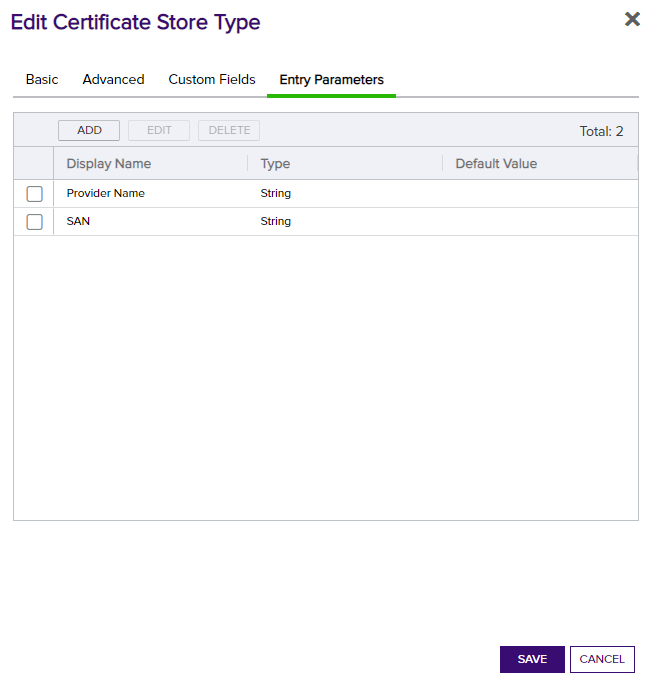
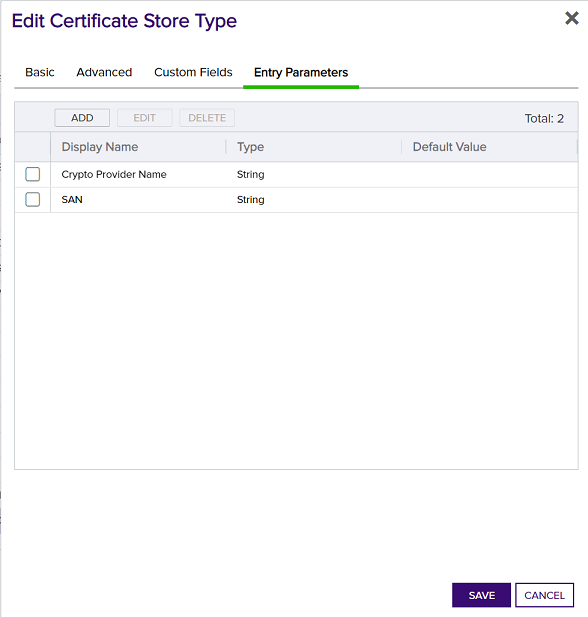
Update readme images, tables. Remove old images.

diff --git a/readme_source.md b/readme_source.md
@@ -33,7 +33,7 @@ Below describes how each of these certificate store types are created and config
 
 CONFIG ELEMENT | VALUE | DESCRIPTION
 --|--|--
-Name | IISU | Display name for the store type (may be customized)
+Name | IIS Bound Certificate | Display name for the store type (may be customized)
 Short Name| IISU | Short display name for the store type
 Custom Capability | IISU | Store type name orchestrator will register with. Check the box to allow entry of value
 Supported Job Types | Inventory, Add, Remove, Reenrollment | Job types the extension supports
@@ -55,21 +55,24 @@ Supports Custom Alias | Forbidden | Determines if an individual entry within a s
 Private Keys | Required | This determines if Keyfactor can send the private key associated with a certificate to the store. Required because IIS certificates without private keys would be useless.
 PFX Password Style | Default or Custom | "Default" - PFX password is randomly generated, "Custom" - PFX password may be specified when the enrollment job is created (Requires the *Allow Custom Password* application setting to be enabled.)
 
-![](images/screen1-a.gif)
+![](images/IISUCertStoreAdv.png)
 
 **Custom Fields:**
 
 Custom fields operate at the certificate store level and are used to control how the orchestrator connects to the remote
 target server containing the certificate store to be managed
 
-Parameter Name|Display Name|Parameter Type|Default Value / Options|Required|Description
+Name|Display Name|Type|Default Value / Options|Required|Description
 ---|---|---|---|---|---
-ServerUsername|Server Username|Secret||No|The username to log into the target server (This field is automatically created)
-ServerPassword|Server Password|Secret||No|The password that matches the username to log into the target server (This field is automatically created)
-ServerUseSsl|Use SSL|Bool|True|Yes|Determine whether the server uses SSL or not (This field is automatically created)
 WinRm Protocol|WinRm Protocol|Multiple Choice| https,http |Yes|Protocol that target server WinRM listener is using
 WinRm Port|WinRm Port|String|5986|Yes| Port that target server WinRM listener is using. Typically 5985 for HTTP and 5986 for HTTPS
-spnwithport|SPN With Port?|Boolean|false|No|Internally set the -IncludePortInSPN option when creating the remote PowerShell connection. Needed for some Kerberos configurations.
+spnwithport|SPN With Port|Bool|false|No|Internally set the -IncludePortInSPN option when creating the remote PowerShell connection. Needed for some Kerberos configurations.
+ServerUsername|Server Username|Secret||No|The username to log into the target server (This field is automatically created)
+ServerPassword|Server Password|Secret||No|The password that matches the username to log into the target server (This field is automatically created)
+ServerUseSsl|Use SSL|Bool|true|Yes|Determine whether the server uses SSL or not (This field is automatically created)
+
+*Note that some of the Names in the first column above have spaces and some do not, it is important to configure the Name field exactly as above.*
+
 
 ![](images/IISUCustomFields.png)
 
@@ -78,16 +81,18 @@ spnwithport|SPN With Port?|Boolean|false|No|Internally set the -IncludePortInSPN
 Entry parameters are inventoried and maintained for each entry within a certificate store.
 They are typically used to support binding of a certificate to a resource.
 
-Parameter Name|Parameter Type|Default Value|Depends On|Required When|Description
+Name|Display Name| Type|Default Value|Required When|Description
 ---|---|---|---|---|---
-SiteName |String|Default Web Site||Adding, Removing, Reenrolling|IIS web site to bind certificate to
-IPAddress|String|*||Adding, Removing, Reenrolling|IP address to bind certificate to (use '*' for all IP addresses)
-Port|String|443||Adding, Removing, Reenrolling|IP port for bind certificate to
-HostName |String||||Host name (host header) to bind certificate to, leave blank for all host names
-SniFlag  |Multiple Choice|0 - No SNI,<br>1 - SNI Enabled,<br>2 - Non SNI Binding,<br>3 - SNI Binding|||Type of SNI for binding<br>(Mutlple choice configuration should be entered as "0 - No SNI,1 - SNI Enabled,2 - Non SNI Binding,3 - SNI Binding")
-Protocol  |Multiple Choice|https||Adding, Removing, Reenrolling|Protocol to bind to (always "https"). 
-ProviderName |String||||Name of the Windows cryptographic provider to use during reenrollment jobs when generating and storing the private keys. If not specified, defaults to 'Microsoft Strong Cryptographic Provider'. This value would typically be specified when leveraging a Hardware Security Module (HSM). The specified cryptographic provider must be available on the target server being managed. The list of installed cryptographic providers can be obtained by running 'certutil -csplist' on the target Server.
-SAN	|String|||Reenrolling|Specifies Subject Alternative Name (SAN) to be used when performing reenrollment jobs. Certificate templates generally require a SAN that matches the subject of the certificate (per RFC 2818). Format is a list of <san_type>=<san_value> entries separated by ampersands. Examples: 'dns=www.mysite.com' for a single SAN or 'dns=www.mysite.com&dns=www.mysite2.com' for multiple SANs. Can be made optional if RFC 2818 is disabled on the CA.
+SiteName | IIS Site Name|String|Default Web Site|Adding, Removing, Reenrolling | IIS web site to bind certificate to
+IPAddress | IP Address | String | * | Adding, Removing, Reenrolling | IP address to bind certificate to (use '*' for all IP addresses)
+Port | Port | String | 443 || Adding, Removing, Reenrolling|IP port for bind certificate to
+HostName | Host Name | String |||| Host name (host header) to bind certificate to, leave blank for all host names
+SniFlag | SNI Support | Multiple Choice | 0 - No SNI||Type of SNI for binding<br>(Multiple choice configuration should be entered as "0 - No SNI,1 - SNI Enabled,2 - Non SNI Binding,3 - SNI Binding")
+Protocol | Protocol | Multiple Choice | https| Adding, Removing, Reenrolling|Protocol to bind to (always "https").<br>(Multiple choice configuration should be "https") 
+ProviderName | Crypto Provider Name | String ||| Name of the Windows cryptographic provider to use during reenrollment jobs when generating and storing the private keys. If not specified, defaults to 'Microsoft Strong Cryptographic Provider'. This value would typically be specified when leveraging a Hardware Security Module (HSM). The specified cryptographic provider must be available on the target server being managed. The list of installed cryptographic providers can be obtained by running 'certutil -csplist' on the target Server.
+SAN | SAN | String || Reenrolling | Specifies Subject Alternative Name (SAN) to be used when performing reenrollment jobs. Certificate templates generally require a SAN that matches the subject of the certificate (per RFC 2818). Format is a list of <san_type>=<san_value> entries separated by ampersands. Examples: 'dns=www.mysite.com' for a single SAN or 'dns=www.mysite.com&dns=www.mysite2.com' for multiple SANs. Can be made optional if RFC 2818 is disabled on the CA.
+
+None of the above entry parameters have the "Depends On" field set.
 
 ![](images/IISUEntryParams.png)
 
@@ -104,7 +109,7 @@ Click Save to save the Certificate Store Type.
 
 CONFIG ELEMENT | VALUE | DESCRIPTION
 --|--|--
-Name | WinCert | Display name for the store type (may be customized)
+Name | Windows Certificate | Display name for the store type (may be customized)
 Short Name| WinCert | Short display name for the store type
 Custom Capability | WinCert | Store type name orchestrator will register with. Check the box to allow entry of value
 Supported Job Types | Inventory, Add, Remove, Reenrollment | Job types the extension supports
@@ -131,14 +136,16 @@ PFX Password Style | Default or Custom | "Default" - PFX password is randomly ge
 
 Custom fields operate at the certificate store level and are used to control how the orchestrator connects to the remote target server containing the certificate store to be managed
 
-Parameter Name|Display Name|Parameter Type|Default Value / Options|Required|Description
+Name|Display Name|Type|Default Value / Options|Required|Description
 ---|---|---|---|---|---
+WinRm Protocol|WinRm Protocol|Multiple Choice| https,http |Yes|Protocol that target server WinRM listener is using
+WinRm Port|WinRm Port|String|5986|Yes| Port that target server WinRM listener is using. Typically 5985 for HTTP and 5986 for HTTPS
+spnwithport|SPN With Port|Bool|false|No|Internally set the -IncludePortInSPN option when creating the remote PowerShell connection. Needed for some Kerberos configurations.
 ServerUsername|Server Username|Secret||No|The username to log into the target server (This field is automatically created)
 ServerPassword|Server Password|Secret||No|The password that matches the username to log into the target server (This field is automatically created)
 ServerUseSsl|Use SSL|Bool|True|Yes|Determine whether the server uses SSL or not (This field is automatically created)
-WinRm Protocol|WinRm Protocol|Multiple Choice| https,http |Yes|Protocol that target server WinRM listener is using
-WinRm Port|WinRm Port|String|5986|Yes| Port that target server WinRM listener is using. Typically 5985 for HTTP and 5986 for HTTPS
-spnwithport|SPN With Port?|Boolean|false|No|Internally set the -IncludePortInSPN option when creating the remote PowerShell connection. Needed for some Kerberos configurations.
+
+*Note that some of the Names in the first column above have spaces and some do not, it is important to configure the Name field exactly as above.*
 
 ![](images/WinCertCustom.png)
 
@@ -148,10 +155,10 @@ Entry parameters are inventoried and maintained for each entry within a certific
 They are typically used to support binding of a certificate to a resource.
 For the WinCert store type they are used to control how reenrollment jobs are performed.
 
-Parameter Name|Parameter Type|Default Value|Depends On|Required When|Description
+Name|Display Name| Type|Default Value|Required When|Description
 ---|---|---|---|---|---
-ProviderName |String||||Name of the Windows cryptographic provider to use during reenrollment jobs when generating and storing the private keys. If not specified, defaults to 'Microsoft Strong Cryptographic Provider'. This value would typically be specified when leveraging a Hardware Security Module (HSM). The specified cryptographic provider must be available on the target server being managed. The list of installed cryptographic providers can be obtained by running 'certutil -csplist' on the target Server.
-SAN	|String|||Reenrolling (if the CA follows RFC 2818 specifications)|Specifies Subject Alternative Name (SAN) to be used when performing reenrollment jobs. Certificate templates generally require a SAN that matches the subject of the certificate (per RFC 2818). Format is a list of <san_type>=<san_value> entries separated by ampersands. Examples: 'dns=www.mysite.com' for a single SAN or 'dns=www.mysite.com&dns=www.mysite2.com' for multiple SANs. Can be made optional if RFC 2818 is disabled on the CA.
+ProviderName | Crypto Provider Name | String ||| Name of the Windows cryptographic provider to use during reenrollment jobs when generating and storing the private keys. If not specified, defaults to 'Microsoft Strong Cryptographic Provider'. This value would typically be specified when leveraging a Hardware Security Module (HSM). The specified cryptographic provider must be available on the target server being managed. The list of installed cryptographic providers can be obtained by running 'certutil -csplist' on the target Server.
+SAN | SAN | String || Reenrolling | Specifies Subject Alternative Name (SAN) to be used when performing reenrollment jobs. Certificate templates generally require a SAN that matches the subject of the certificate (per RFC 2818). Format is a list of <san_type>=<san_value> entries separated by ampersands. Examples: 'dns=www.mysite.com' for a single SAN or 'dns=www.mysite.com&dns=www.mysite2.com' for multiple SANs. Can be made optional if RFC 2818 is disabled on the CA.
 
 ![](images/WinCertEntryParams.png)
 
@@ -172,14 +179,14 @@ In Keyfactor Command, navigate to Certificate Stores from the Locations Menu.  C
 #### STORE CONFIGURATION 
 CONFIG ELEMENT	|DESCRIPTION
 ----------------|---------------
-Category | Select the IISU or the customized certificate store type name from above.
+Category | Select IIS Bound Certificate or the customized certificate store display name from above.
 Container | Optional container to associate certificate store with.
 Client Machine | Hostname of the IIS server containing the certificate store to be managed.
 Store Path | Windows certificate store to manage. Choose "My" for the Personal Store or "WebHosting" for the Web Hosting Store. 
-Orchestrator | This is the orchestrator server registered with the appropriate capabilities to manage this certificate store type. 
-SPN with Port | Typically False. Needed in some Kerberos configurations.
+Orchestrator | Select an approved orchestrator capable of managing IIS Bound Certificates (one that has declared the IISU capability)
 WinRm Protocol | Protocol to use when establishing the WinRM session. (Listener on Client Machine must be configured for selected protocol.)
 WinRm Port | Port WinRM listener is configured for (HTTPS default is 5986)
+SPN with Port | Typically False. Needed in some Kerberos configurations.
 Server Username | Username to use when establishing the WinRM session to the Client Machine. Account needs to be an administrator or have been granted rights to manage IIS configuration and manipulate the local machine certificate store. 
 Server Password | Password to use when establishing the WinRM session to the Client Machine
 Use SSL | Ignored for this certificate store type. Transport encryption is determined by the WinRM Protocol Setting
@@ -199,20 +206,20 @@ In Keyfactor Command, navigate to Certificate Stores from the Locations Menu.  C
 #### STORE CONFIGURATION 
 CONFIG ELEMENT	|DESCRIPTION
 ----------------|---------------
-Category | Select the WinCert or the customized certificate store type name from above.
+Category | Select Windows Certificate or the customized certificate store display name from above.
 Container | Optional container to associate certificate store with.
 Client Machine | Hostname of the server containing the certificate store to be managed.
 Store Path | Windows certificate store to manage. Store must exist in the Local Machine store on the target server. 
-Orchestrator | This is the orchestrator server registered with the appropriate capabilities to manage this certificate store type. 
-SPN with Port | Typically False. Needed in some Kerberos configurations.
+Orchestrator | Select an approved orchestrator capable of managing Windows Certificates (one that has declared the WinCert capability)
 WinRm Protocol | Protocol to use when establishing the WinRM session. (Listener on Client Machine must be configured for selected protocol.)
 WinRm Port | Port WinRM listener is configured for (HTTPS default is 5986)
+SPN with Port | Typically False. Needed in some Kerberos configurations.
 Server Username | Username to use when establishing the WinRM session to the Client Machine. Account needs to be an admin or have been granted rights to manipulate the local machine certificate store.
 Server Password | Password to use when establishing the WinRM session to the Client Machine
 Use SSL | Ignored for this certificate store type. Transport encryption is determined by the WinRM Protocol Setting
 Inventory Schedule | The interval that the system will use to report on what certificates are currently in the store. 
 
-![](images/WinCertStore.png)
+![](images/WinCertAddCertStore.png)
 
 </details>
 
@@ -230,11 +237,11 @@ Case Number|Case Name|Enrollment Params|Expected Results|Passed|Screenshot
 5   |New Cert Enrollment New Host Name|**Site Name:** FirstSite<br/>**Port:** 443<br/>**IP Address:**`192.168.58.162`<br/>**Host Name:** www.newhostname.com<br/>**Sni Flag:** 1 - SNI Enabled<br/>**Protocol:** https|New Binding Created With different host on Same Port and IP Address|True|![](images/TestCase5Results.gif)
 6   |New Cert Enrollment Same Site New Port |**Site Name:** FirstSite<br/>**Port:** 4443<br/>**IP Address:**`192.168.58.162`<br/>**Host Name:** www.newhostname.com<br/>**Sni Flag:** 1 - SNI Enabled<br/>**Protocol:** https|New Binding on different port will be created with new cert enrolled|True|![](images/TestCase6Results.gif)
 7   |Remove Cert and Binding From Test Case 6|**Site Name:** FirstSite<br/>**Port:** 4443<br/>**IP Address:**`192.168.58.162`<br/>**Host Name:** www.newhostname.com<br/>**Sni Flag:** 1 - SNI Enabled<br/>**Protocol:** https|Cert and Binding From Test Case 6 Removed|True|![](images/TestCase7Results.gif)
-8   |Renew Same Cert on 2 Different Sites|`SITE 1`<br/>**Site Name:** FirstSite<br/>**Port:** 443<br/>**IP Address:**`*`<br/>**Host Name:** www.firstsite.com<br/>**Sni Flag:** 1 - SNI Enabled<br/>**Protocol:** https<br/>`SITE 2`<br/>**First Site**<br/>**Site Name:** SecondSite<br/>**Port:** 443<br/>**IP Address:**`*`<br/>**Host Name:** cstiis04.cstpki.int<br/>**Sni Flag:** 1 - SNI Enabled<br/>**Protocol:** https|Cert will be renewed on both sites because it has the same thrumbprint|True|![](images/TestCase8Site1.gif)![](images/TestCase8Site2.gif)
-9   |Renew Same Cert on Same Site Same Binding Settings Different Hostname|`BINDING 1`<br/>**Site Name:** FirstSite<br/>**Port:** 443<br/>**IP Address:**`*`<br/>**Host Name:** www.firstsitebinding1.com<br/>**Sni Flag:** 1 - SNI Enabled<br/>**Protocol:** https<br/>`BINDING 2`<br/>**Site Name:** FirstSite<br/>**Port:** 443<br/>**IP Address:**`*`<br/>**Host Name:** www.firstsitebinding2.com<br/>**Sni Flag:** 1 - SNI Enabled<br/>**Protocol:** https|Cert will be renewed on both bindings because it has the same thrumbprint|True|![](images/TestCase9Binding1.gif)![](images/TestCase9Binding2.gif)
-10  |Renew Single Cert on Same Site Same Binding Settings Different Hostname Different Certs|`BINDING 1`<br/>**Site Name:** FirstSite<br/>**Port:** 443<br/>**IP Address:**`*`<br/>**Host Name:** www.firstsitebinding1.com<br/>**Sni Flag:** 1 - SNI Enabled<br/>**Protocol:** https<br/>`BINDING 2`<br/>**Site Name:** FirstSite<br/>**Port:** 443<br/>**IP Address:**`*`<br/>**Host Name:** www.firstsitebinding2.com<br/>**Sni Flag:** 1 - SNI Enabled<br/>**Protocol:** https|Cert will be renewed on only one binding because the other binding does not match thrumbprint|True|![](images/TestCase10Binding1.gif)![](images/TestCase10Binding2.gif)
-11  |Renew Same Cert on Same Site Same Binding Settings Different IPs|`BINDING 1`<br/>**Site Name:** FirstSite<br/>**Port:** 443<br/>**IP Address:**`192.168.58.162`<br/>**Host Name:** www.firstsitebinding1.com<br/>**Sni Flag:** 1 - SNI Enabled<br/>**Protocol:** https<br/>`BINDING 2`<br/>**Site Name:** FirstSite<br/>**Port:** 443<br/>**IP Address:**`192.168.58.160`<br/>**Host Name:** www.firstsitebinding1.com<br/>**Sni Flag:** 1 - SNI Enabled<br/>**Protocol:** https|Cert will be renewed on both bindings because it has the same thrumbprint|True|![](images/TestCase11Binding1.gif)![](images/TestCase11Binding2.gif)
-12  |Renew Same Cert on Same Site Same Binding Settings Different Ports|`BINDING 1`<br/>**Site Name:** FirstSite<br/>**Port:** 443<br/>**IP Address:**`192.168.58.162`<br/>**Host Name:** www.firstsitebinding1.com<br/>**Sni Flag:** 1 - SNI Enabled<br/>**Protocol:** https<br/>`BINDING 2`<br/>**Site Name:** FirstSite<br/>**Port:** 543<br/>**IP Address:**`192.168.58.162`<br/>**Host Name:** www.firstsitebinding1.com<br/>**Sni Flag:** 1 - SNI Enabled<br/>**Protocol:** https|Cert will be renewed on both bindings because it has the same thrumbprint|True|![](images/TestCase12Binding1.gif)![](images/TestCase12Binding2.gif)
+8   |Renew Same Cert on 2 Different Sites|`SITE 1`<br/>**Site Name:** FirstSite<br/>**Port:** 443<br/>**IP Address:**`*`<br/>**Host Name:** www.firstsite.com<br/>**Sni Flag:** 1 - SNI Enabled<br/>**Protocol:** https<br/>`SITE 2`<br/>**First Site**<br/>**Site Name:** SecondSite<br/>**Port:** 443<br/>**IP Address:**`*`<br/>**Host Name:** cstiis04.cstpki.int<br/>**Sni Flag:** 1 - SNI Enabled<br/>**Protocol:** https|Cert will be renewed on both sites because it has the same thumbprint|True|![](images/TestCase8Site1.gif)![](images/TestCase8Site2.gif)
+9   |Renew Same Cert on Same Site Same Binding Settings Different Hostname|`BINDING 1`<br/>**Site Name:** FirstSite<br/>**Port:** 443<br/>**IP Address:**`*`<br/>**Host Name:** www.firstsitebinding1.com<br/>**Sni Flag:** 1 - SNI Enabled<br/>**Protocol:** https<br/>`BINDING 2`<br/>**Site Name:** FirstSite<br/>**Port:** 443<br/>**IP Address:**`*`<br/>**Host Name:** www.firstsitebinding2.com<br/>**Sni Flag:** 1 - SNI Enabled<br/>**Protocol:** https|Cert will be renewed on both bindings because it has the same thumbprint|True|![](images/TestCase9Binding1.gif)![](images/TestCase9Binding2.gif)
+10  |Renew Single Cert on Same Site Same Binding Settings Different Hostname Different Certs|`BINDING 1`<br/>**Site Name:** FirstSite<br/>**Port:** 443<br/>**IP Address:**`*`<br/>**Host Name:** www.firstsitebinding1.com<br/>**Sni Flag:** 1 - SNI Enabled<br/>**Protocol:** https<br/>`BINDING 2`<br/>**Site Name:** FirstSite<br/>**Port:** 443<br/>**IP Address:**`*`<br/>**Host Name:** www.firstsitebinding2.com<br/>**Sni Flag:** 1 - SNI Enabled<br/>**Protocol:** https|Cert will be renewed on only one binding because the other binding does not match thumbprint|True|![](images/TestCase10Binding1.gif)![](images/TestCase10Binding2.gif)
+11  |Renew Same Cert on Same Site Same Binding Settings Different IPs|`BINDING 1`<br/>**Site Name:** FirstSite<br/>**Port:** 443<br/>**IP Address:**`192.168.58.162`<br/>**Host Name:** www.firstsitebinding1.com<br/>**Sni Flag:** 1 - SNI Enabled<br/>**Protocol:** https<br/>`BINDING 2`<br/>**Site Name:** FirstSite<br/>**Port:** 443<br/>**IP Address:**`192.168.58.160`<br/>**Host Name:** www.firstsitebinding1.com<br/>**Sni Flag:** 1 - SNI Enabled<br/>**Protocol:** https|Cert will be renewed on both bindings because it has the same thumbprint|True|![](images/TestCase11Binding1.gif)![](images/TestCase11Binding2.gif)
+12  |Renew Same Cert on Same Site Same Binding Settings Different Ports|`BINDING 1`<br/>**Site Name:** FirstSite<br/>**Port:** 443<br/>**IP Address:**`192.168.58.162`<br/>**Host Name:** www.firstsitebinding1.com<br/>**Sni Flag:** 1 - SNI Enabled<br/>**Protocol:** https<br/>`BINDING 2`<br/>**Site Name:** FirstSite<br/>**Port:** 543<br/>**IP Address:**`192.168.58.162`<br/>**Host Name:** www.firstsitebinding1.com<br/>**Sni Flag:** 1 - SNI Enabled<br/>**Protocol:** https|Cert will be renewed on both bindings because it has the same thumbprint|True|![](images/TestCase12Binding1.gif)![](images/TestCase12Binding2.gif)
 13	|ReEnrollment to Fortanix HSM|**Subject Name:** cn=www.mysite.com<br/>**Port:** 433<br/>**IP Address:**`*`<br/>**Host Name:** mysite.command.local<br/>**Site Name:**Default Web Site<br/>**Sni Flag:** 0 - No SNI<br/>**Protocol:** https<br/>**Provider Name:** Fortanix KMS CNG Provider<br/>**SAN:** dns=www.mysite.com&dns=mynewsite.com|Cert will be generated with keys stored in Fortanix HSM and the cert will be bound to the supplied site.|true|![](images/ReEnrollment1a.png)![](images/ReEnrollment1b.png)
 14	|New Cert Enrollment To New Binding With Pam Creds|**Site Name:** FirstSite<br/>**Port:** 443<br/>**IP Address:**`*`<br/>**Host Name:** www.firstsite.com<br/>**Sni Flag:** 0 - No SNI<br/>**Protocol:** https|New Binding Created with Enrollment Params specified creds pulled from Pam Provider|True|![](images/TestCase1Results.gif)
 15	|New Cert Enrollment Default Site No HostName|**Site Name:** Default Web Site<br/>**Port:** 443<br/>**IP Address:**`*`<br/>**Host Name:**<br/>**Sni Flag:** 0 - No SNI<br/>**Protocol:** https|New Binding Installed with no HostName|True|![](images/TestCase15Results.gif)
